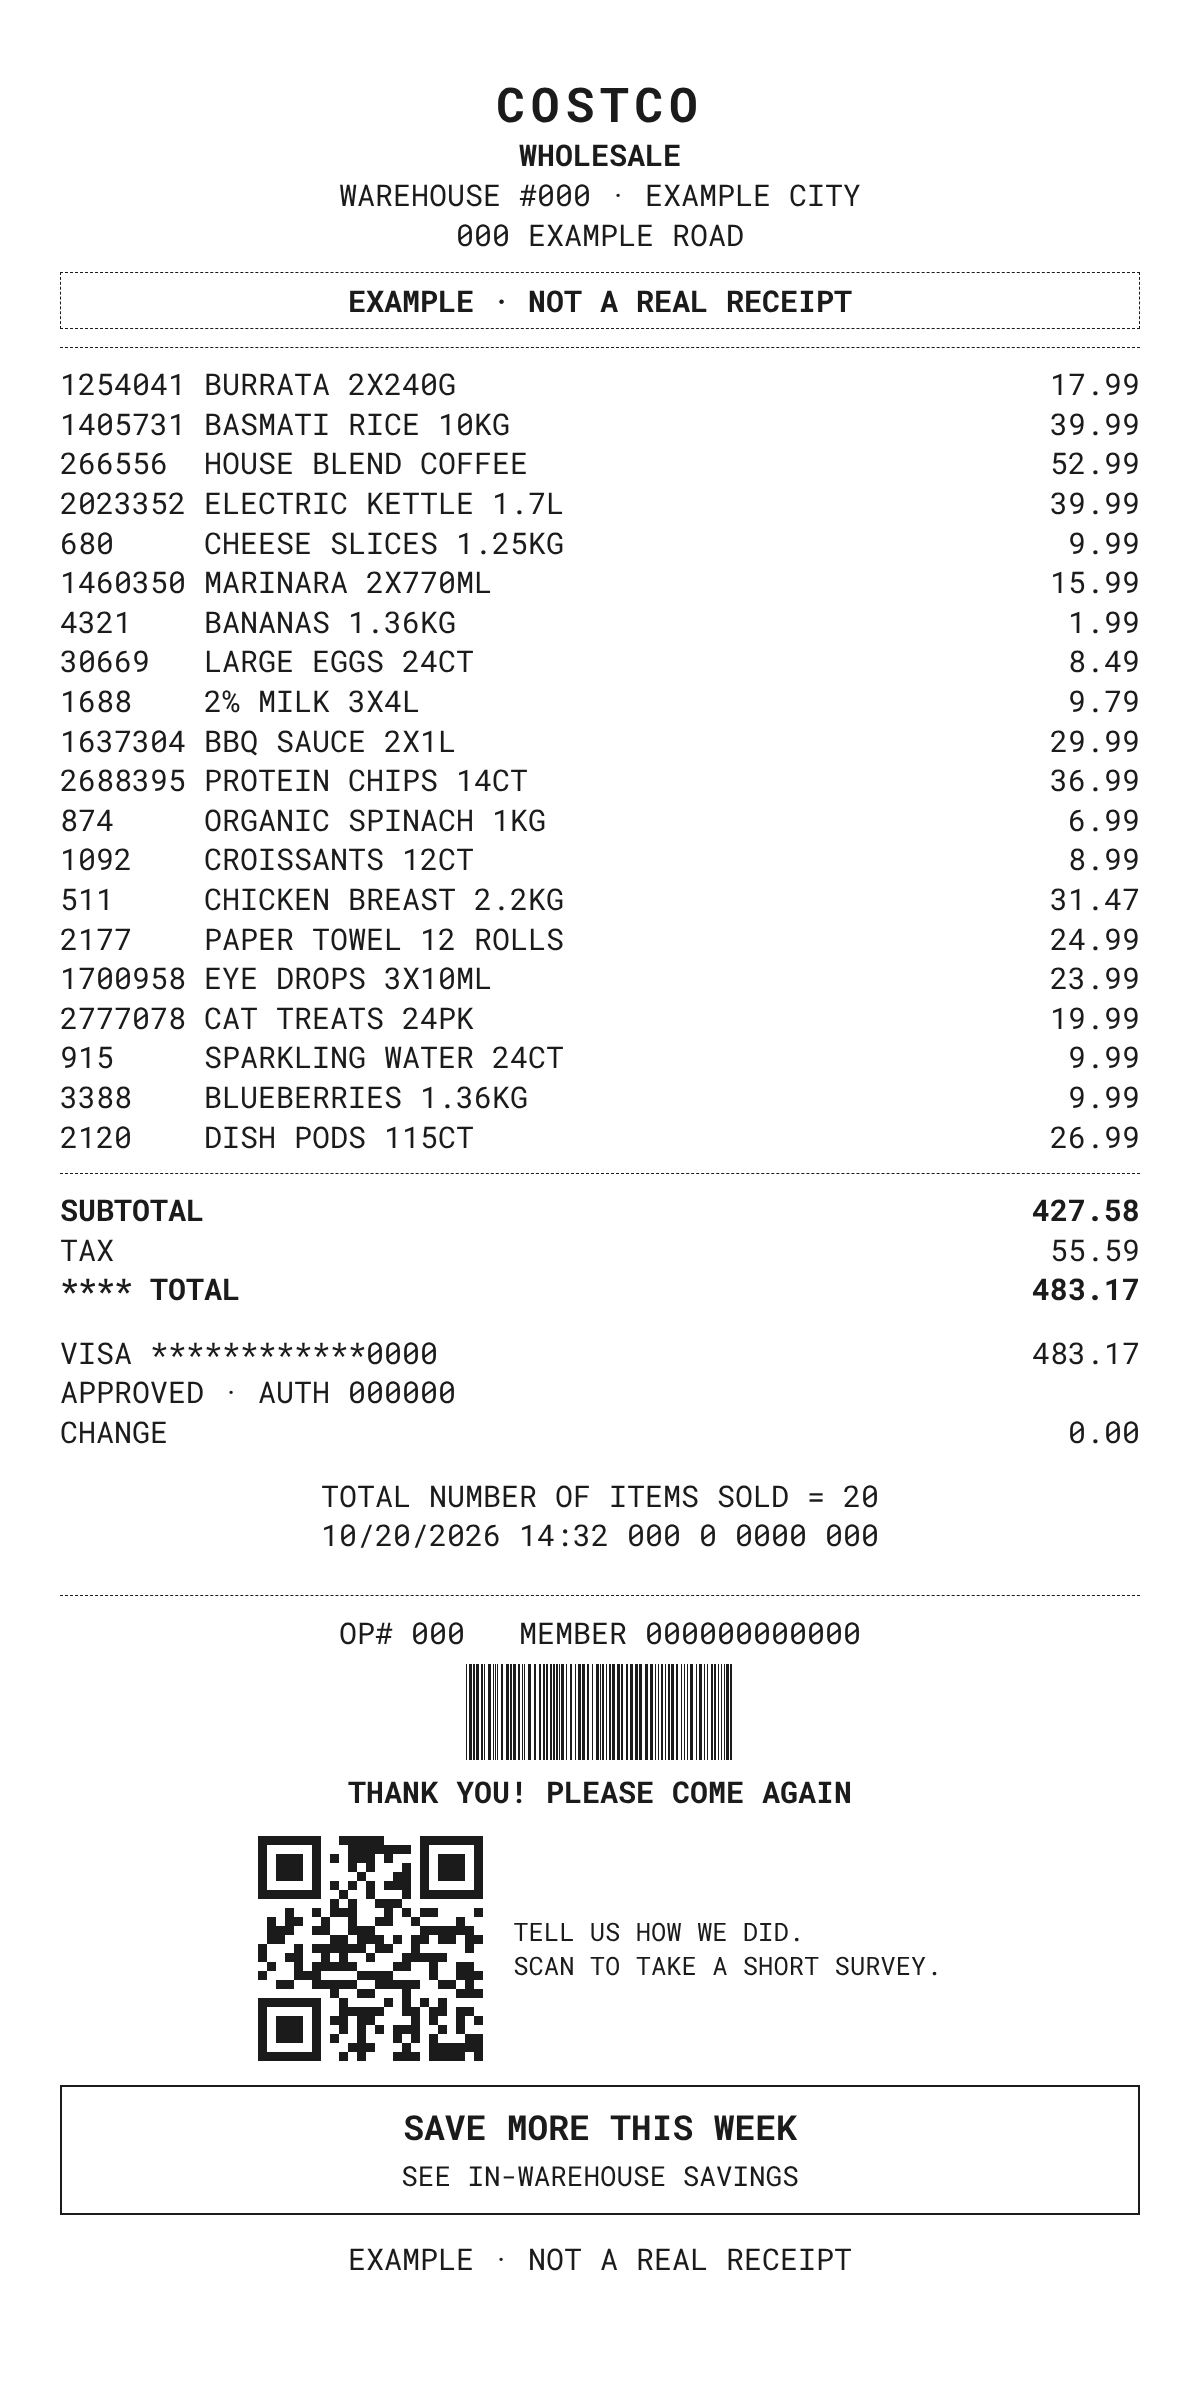
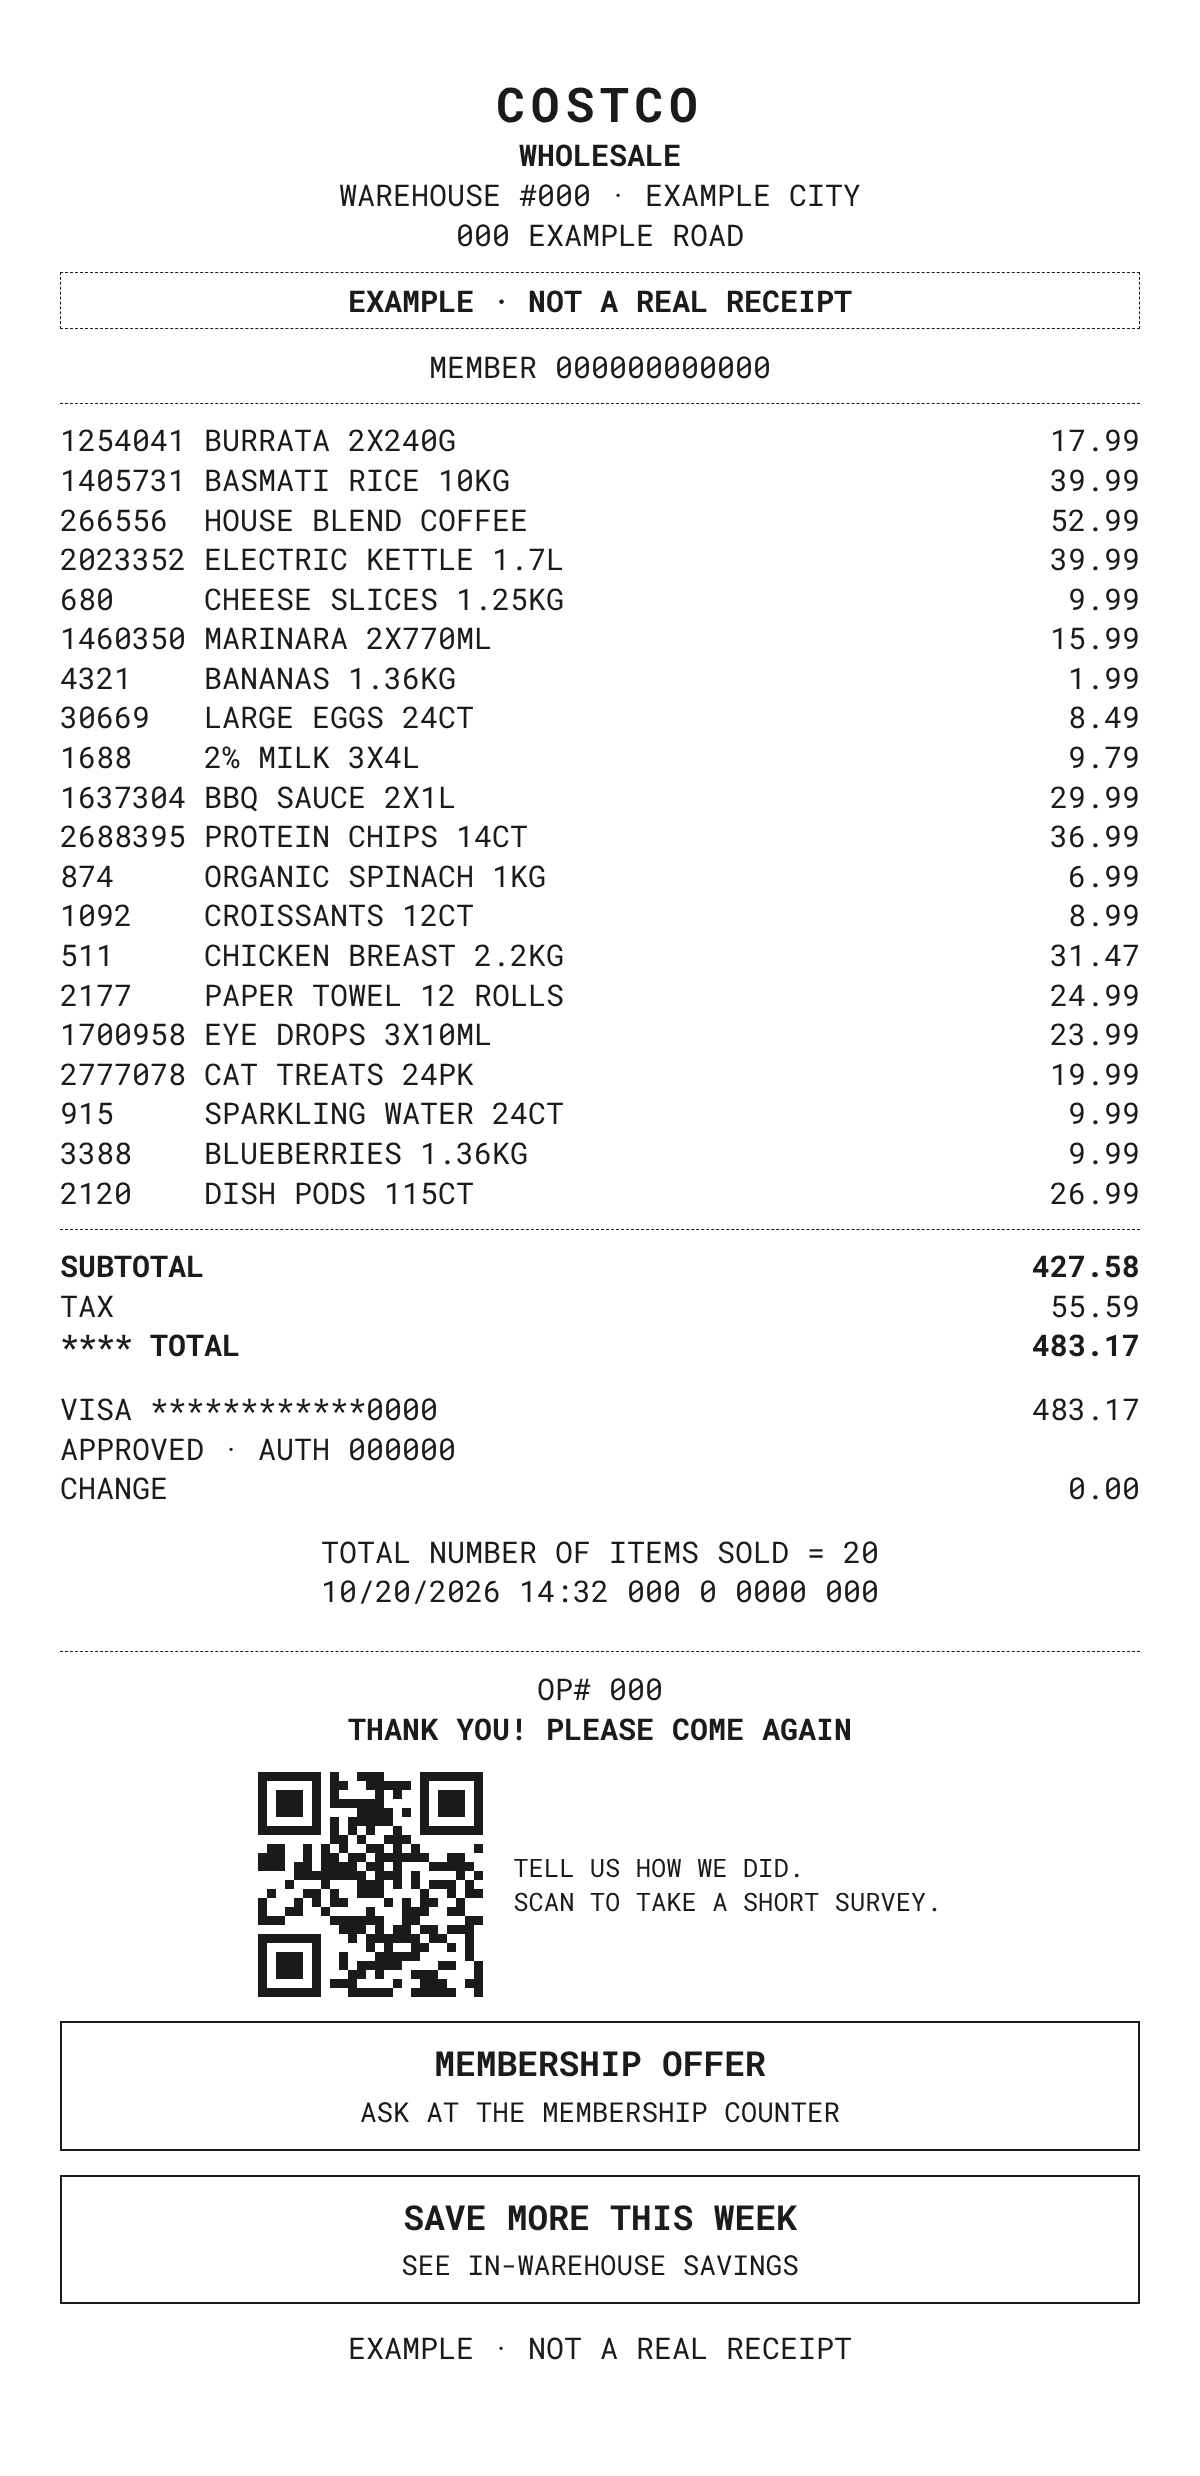
11-realistic-tutorials: real Costco layout on the fake receipt; align scan wording with app PR #501
- Member line moved to the header (it is the last header line on a Costco
  receipt, per priceback src/services/receiptHeader.js); the bottom now holds
  the QR survey, a membership offer and an ad. No barcode is drawn.
- S3 voice-over and caption: "QR codes, membership offers and ads at the
  bottom can stay out of the shot". Framing rule and screen briefs updated.
- SERIES.md: in-app wording aligned in priceback PR #501.

Claude-Session: https://claude.ai/code/session_01MkB1bLt1RFhBP212goX693

diff --git a/sm-content/11-realistic-tutorials/tools/fake-receipt.js b/sm-content/11-realistic-tutorials/tools/fake-receipt.js
@@ -34,9 +34,8 @@ const total = Math.round((sub + tax) * 100) / 100;
 const m = (n) => n.toFixed(2);
 
 
-// A barcode and a QR-shaped block that encode nothing: deterministic noise with the right look.
+// A QR-shaped block that encodes nothing: deterministic noise with the right look.
 let seed = 42; const rnd = () => ((seed = (seed * 16807) % 2147483647) / 2147483647);
-const BARS = Array.from({ length: 70 }, (_, i) => `<i style="width:${1 + Math.floor(rnd() * 3)}px;margin-right:${1 + Math.floor(rnd() * 3)}px"></i>`).join("");
 const QR = (() => {
   const n = 25, cells = [];
   const finder = (r, c) => [[0, 0], [0, n - 7], [n - 7, 0]].some(([fr, fc]) => {
@@ -61,13 +60,13 @@ body{background:#fff;font-family:M,monospace;color:#1b1b1b}
 .ex{margin:.6em 0;border:1px dashed #1b1b1b;padding:.25em;text-align:center;font-weight:700}
 .l{display:flex;justify-content:space-between;gap:1em}.l span:first-child{white-space:nowrap;overflow:hidden}
 .hr{border-top:1px dashed #1b1b1b;margin:.55em 0}.gap{height:.8em}
-.bars{display:flex;justify-content:center;height:3.2em;margin:.4em 0}.bars i{display:block;height:100%;background:#1b1b1b}
 .qrrow{display:flex;gap:1em;align-items:center;justify-content:center}.qr{display:grid;grid-template-columns:repeat(25,1fr);width:7.5em;height:7.5em}.qr i{background:#1b1b1b}.qr b{background:transparent}.qrt{font-size:.85em}
 .ad{border:2px solid #1b1b1b;padding:.5em;text-align:center;font-weight:700;font-size:1.15em}.ad span{font-weight:400;font-size:.8em}
 </style></head><body><div class="rc">
 <div class="c b big">COSTCO</div><div class="c b">WHOLESALE</div>
 <div class="c">WAREHOUSE #000 · EXAMPLE CITY</div><div class="c">000 EXAMPLE ROAD</div>
-<div class="ex">EXAMPLE · NOT A REAL RECEIPT</div><div class="hr"></div>
+<div class="ex">EXAMPLE · NOT A REAL RECEIPT</div>
+<div class="c">MEMBER 000000000000</div><div class="hr"></div>
 ${ITEMS.map(([n, d, p]) => row(`${n.padEnd(8, "\u00a0")}${d}`, m(p))).join("")}
 <div class="hr"></div>
 ${row("SUBTOTAL", m(sub), "b")}${row("TAX", m(tax))}${row("**** TOTAL", m(total), "b")}
@@ -77,10 +76,10 @@ ${row("VISA ************0000", m(total))}${row("APPROVED · AUTH 000000", "")}${
 <div class="c" id="dateline">10/20/2026 14:32 000 0 0000 000</div>
 <div id="cut"></div>
 <div class="gap"></div><div class="hr"></div>
-<div class="c">OP# 000 &nbsp; MEMBER 000000000000</div>
-<div class="bars">${BARS}</div>
+<div class="c">OP# 000</div>
 <div class="c b">THANK YOU! PLEASE COME AGAIN</div><div class="gap"></div>
 <div class="qrrow"><div class="qr">${QR}</div><div class="qrt">TELL US HOW WE DID.<br>SCAN TO TAKE A SHORT SURVEY.</div></div>
+<div class="gap"></div><div class="ad">MEMBERSHIP OFFER<br><span>ASK AT THE MEMBERSHIP COUNTER</span></div>
 <div class="gap"></div><div class="ad">SAVE MORE THIS WEEK<br><span>SEE IN-WAREHOUSE SAVINGS</span></div>
 <div class="gap"></div><div class="c">EXAMPLE · NOT A REAL RECEIPT</div>
 </div></body></html>`;
@@ -97,7 +96,7 @@ ${row("VISA ************0000", m(total))}${row("APPROVED · AUTH 000000", "")}${
   await (await p.$(".rc")).screenshot({ path: path.join(out, "receipt-example.png") });
   const cutY = await p.evaluate(() => { const rc = document.querySelector(".rc").getBoundingClientRect(); return Math.round(document.getElementById("cut").getBoundingClientRect().top - rc.top); });
   const fullH = await p.$eval(".rc", (e) => Math.round(e.getBoundingClientRect().height));
-  fs.writeFileSync(path.join(out, "receipt-example.json"), JSON.stringify({ width: 1200, height: fullH, keepTo: cutY, note: "Everything above keepTo is what the scan should capture (header to the date line). Below it: membership, QR code, ad: left out." }, null, 2));
+  fs.writeFileSync(path.join(out, "receipt-example.json"), JSON.stringify({ width: 1200, height: fullH, keepTo: cutY, note: "Everything above keepTo is what the scan should capture (top of the receipt down to the register date line). Below it: QR code, membership offer, ad: left out. The member line is part of the header, at the top, as on a real Costco receipt." }, null, 2));
   await p.setContent(html("80mm"));
   await p.evaluate(() => Promise.all(["400", "700"].map((w) => document.fonts.load(w + " 30px M"))));
   const hMm = Math.ceil((await p.$eval(".rc", (e) => e.getBoundingClientRect().height)) / 3.7795) + 2;

diff --git a/sm-content/11-realistic-tutorials/01-scan-receipt/SCRIPT.md b/sm-content/11-realistic-tutorials/01-scan-receipt/SCRIPT.md
@@ -7,17 +7,17 @@ Length **48.25 s** · 1080×1920 · 30 fps · in-app tutorial id `firstReceipt` 
 
 **Receipt rule:** Fake by construction: warehouse #000, member 000000000000, card 0000, auth 000000, EXAMPLE line in the header. No real user data may appear in any shot or recording.
 
-**Framing rule:** Every receipt shot and the screen recording frame the receipt from the header down to the date line under TOTAL NUMBER OF ITEMS SOLD (receipt/receipt-example.json keepTo). The item count and the date are always inside the frame but are never named in VO or captions. Membership barcode, QR code and ads are always outside it.
+**Framing rule:** Every receipt shot and the screen recording frame the receipt from the top (header and member line) down to the date line under TOTAL NUMBER OF ITEMS SOLD (receipt/receipt-example.json keepTo). The item count and the date are always inside the frame but are never named in VO or captions. QR codes, membership offers and ads at the bottom are always outside it. On a real Costco receipt the member line is the last header line, at the top (priceback src/services/receiptHeader.js).
 
 **Character:** Megan. Photorealistic candid photo, vertical 9:16. A Canadian woman in her early thirties, shoulder-length wavy brown hair, light natural makeup, oatmeal cable-knit sweater, jeans. Standing in a bright, lived-in suburban kitchen with white shaker cabinets, butcher-block counter, a fruit bowl and a kettle. Soft daylight from a window on the left. Shot on a phone at eye level, natural skin texture, no retouching, no text, no logos.
 
 | # | Time (s) | Beat | Picture | Voice-over | On screen |
 | --- | --- | --- | --- | --- | --- |
 | S1 | 0.00–4.50 | Hook: the common mistake | Megan stands on a wooden kitchen chair, arm stretched high, holding her phone face-down over a very long store receipt that runs across the butcher-block counter and trails down onto the floor. She squints at the phone screen, slightly comic effort. Medium-wide, eye level, daylight kitchen.<br>*Motion:* She leans a little further and wobbles on the chair, the long receipt curls off the counter edge. Handheld camera, gentle push-in. Natural, light comedy, no exaggeration. | “Scanning a Costco receipt? You don't need the whole thing.” | You don't need the whole receipt |
-| S2 | 4.50–9.50 | The three parts | Top-down close shot of the supplied example receipt lying flat on a light oak table. A woman's hand with a simple ring points at the very top of the receipt, the store header block.<br>*Motion:* The index finger slides slowly down the receipt: pauses at the header, glides down the long column of item lines, pauses at the totals, and stops just under the date line, above the barcode. Locked-off overhead camera, soft daylight. | “Focus on the top with the warehouse, every item, and the totals.” | ① Header   ② Every item   ③ Totals |
-| S3 | 9.50–15.00 | Leave out the bottom: membership, QR code, ads | Close-up of two hands holding the bottom of the supplied example receipt over a light oak table: the membership barcode, the square QR code and the boxed ad at the very bottom are visible.<br>*Motion:* The hands fold the bottom section underneath, creasing just below the date line, so the membership barcode, the QR code and the ad disappear behind the receipt. Slow, deliberate, natural hand motion. Locked-off camera. | “QR codes, the membership barcode and the ads at the bottom can stay out of the shot.” | Leave out: QR codes · membership · ads |
+| S2 | 4.50–9.50 | The three parts | Top-down close shot of the supplied example receipt lying flat on a light oak table. A woman's hand with a simple ring points at the very top of the receipt, the store header block.<br>*Motion:* The index finger slides slowly down the receipt: pauses at the header, glides down the long column of item lines, pauses at the totals, and stops just under the date line, above the QR code. Locked-off overhead camera, soft daylight. | “Focus on the top with the warehouse, every item, and the totals.” | ① Header   ② Every item   ③ Totals |
+| S3 | 9.50–15.00 | Leave out the bottom: QR codes, membership offers, ads | Close-up of two hands holding the bottom of the supplied example receipt over a light oak table: the square QR code, the boxed membership offer and the boxed ad at the very bottom are visible.<br>*Motion:* The hands fold the bottom section underneath, creasing just below the date line, so the QR code, the membership offer and the ad disappear behind the receipt. Slow, deliberate, natural hand motion. Locked-off camera. | “QR codes, membership offers and ads at the bottom can stay out of the shot.” | Leave out: QR codes · offers · ads |
 | S4 | 15.00–20.00 | Flat, lit, straight | Over-the-shoulder shot: Megan holds her phone flat and parallel above a long receipt laid straight on a plain light table beside a bright window. The top of the receipt points away from her. Soft even daylight, no harsh shadows.<br>*Motion:* She smooths the receipt flat with one hand, then raises the phone straight above it and holds steady. Subtle handheld drift, slow push-in. | “Lay it flat in good light. Hold your phone straight above it.” | Flat · good light · straight above |
-| S5 | 20.00–24.00 | Real app: scan | **Real screen recording.** Screen recording from a real phone, scanning a PRINTOUT of receipt/receipt-example.pdf (never a real receipt): Scan receipt tab → Scan a receipt → the document scanner frames the receipt from the header down to the date line under TOTAL NUMBER OF ITEMS SOLD, with the fold hiding the membership barcode, QR code and ad → capture. 6–8 s raw, portrait, Do Not Disturb on. | “Check that every item is in the frame, then scan.” | Every item in the frame |
+| S5 | 20.00–24.00 | Real app: scan | **Real screen recording.** Screen recording from a real phone, scanning a PRINTOUT of receipt/receipt-example.pdf (never a real receipt): Scan receipt tab → Scan a receipt → the document scanner frames the receipt from the header down to the date line under TOTAL NUMBER OF ITEMS SOLD, with the fold hiding the QR code, membership offer and ad → capture. 6–8 s raw, portrait, Do Not Disturb on. | “Check that every item is in the frame, then scan.” | Every item in the frame |
 | S6a | 24.00–28.75 | What gets declined (1/2) | Phone-screen point of view looking down at a receipt on a glossy kitchen counter at night under a bright ceiling light: a white glare hotspot washes out the middle of the receipt, the phone's own shadow falls across it.<br>*Motion:* Slight handheld shake, the glare hotspot slides across the paper. Slightly underexposed, realistic bad photo conditions. | “To keep every alert accurate, blurry, dark or cropped photos may be declined.” | Blurry or dark may be declined |
 | S6b | 28.75–33.50 | What gets declined: a photo of the total only | Over-the-shoulder close shot: a hand holds a phone very close to the supplied example receipt so that the phone camera view shows ONLY the totals block (SUBTOTAL, TAX, TOTAL). The header and the item lines are outside the phone frame.<br>*Motion:* The hand taps the phone to take the photo of the totals alone. Slight handheld movement. Realistic, everyday. | “A photo of just the total won’t be accepted either. There are no items to watch.” | Total only: declined |
 | S6c | 33.50–37.25 | Real app: the decline | **Real screen recording.** Screen recording from a real phone: photograph ONLY the totals block of the printed example receipt, submit, and record what the app shows when it refuses it. 5–6 s raw, portrait, Do Not Disturb on. Today a totals-only photo is refused either as unreadable or at review as No items detected, depending on how it reads; record whichever the current build shows, or wait for a dedicated totals-only message if one is added. | “If a photo is declined, simply scan the full receipt again.” | Declined: scan the full receipt again |

diff --git a/sm-content/11-realistic-tutorials/SERIES.md b/sm-content/11-realistic-tutorials/SERIES.md
@@ -55,11 +55,11 @@ voice, the captions and the outro are redone.
 ### 01 · How to scan your Costco receipt (built: see `01-scan-receipt/SCRIPT.md`)
 
 Hook (standing on a chair to fit the whole receipt) → focus on the header, every item and the totals → QR codes,
-the membership barcode and the ads at the bottom stay out → flat, good light, phone straight above → real
+membership offers and ads at the bottom stay out → flat, good light, phone straight above → real
 scan → **what gets declined**: blurry or dark photos, and a photo of the total alone ("there are no items to
 watch") → real decline screen → the payoff: PriceBack watches every item and alerts on a verified drop → outro.
-Every receipt frame runs from the header down to the date line under the item count, so both are always
-captured; neither is ever named.
+Every receipt frame runs from the header (with the member line, which sits at the top on a real Costco receipt)
+down to the date line under the item count, so both are always captured; neither is ever named.
 
 ### 02 · How to scan a shelf price tag
 
@@ -103,7 +103,7 @@ build live in both stores.
 ### 06 · Upload a receipt from your photos or a file
 
 Photo library, PDF or email file (`scan.gallery`, `scan.uploadFile`), with the same rule as 01: header, every
-item, totals; QR codes, membership barcode and ads left out of the image; total-only images are declined.
+item, totals; QR codes, membership offers and ads left out of the image; total-only images are declined.
 
 ## Credits (Higgsfield, priced 2026-10-28 with `get_cost`)
 
@@ -129,6 +129,6 @@ The account holds **1.1 credits** today, so no AI footage has been generated yet
 3. **Totals-only photos:** today they're refused as *unreadable* (no credit) or stopped at review with *No items
    detected*, depending on how they read. If you want one clear message for this case, that's an app change; the
    video's S6c recording shows whichever message the build gives.
-4. **In-app wording:** the unreadable message says "retake the photo with the **whole receipt** flat and well
-   lit", and the scan screen says "**Snap** your whole receipt". Both contradict this video (header to totals,
-   leave the bottom out; scan, not snap). Worth aligning the strings before the video ships.
+4. **In-app wording:** aligned in priceback PR #501 (EN + FR, app and push copy): scan, not snap; top of the
+   receipt with every item and the totals; QR codes, membership offers and ads at the bottom not needed. The
+   wording never says "stop at the total", because Costco prints the purchase date below the totals.
